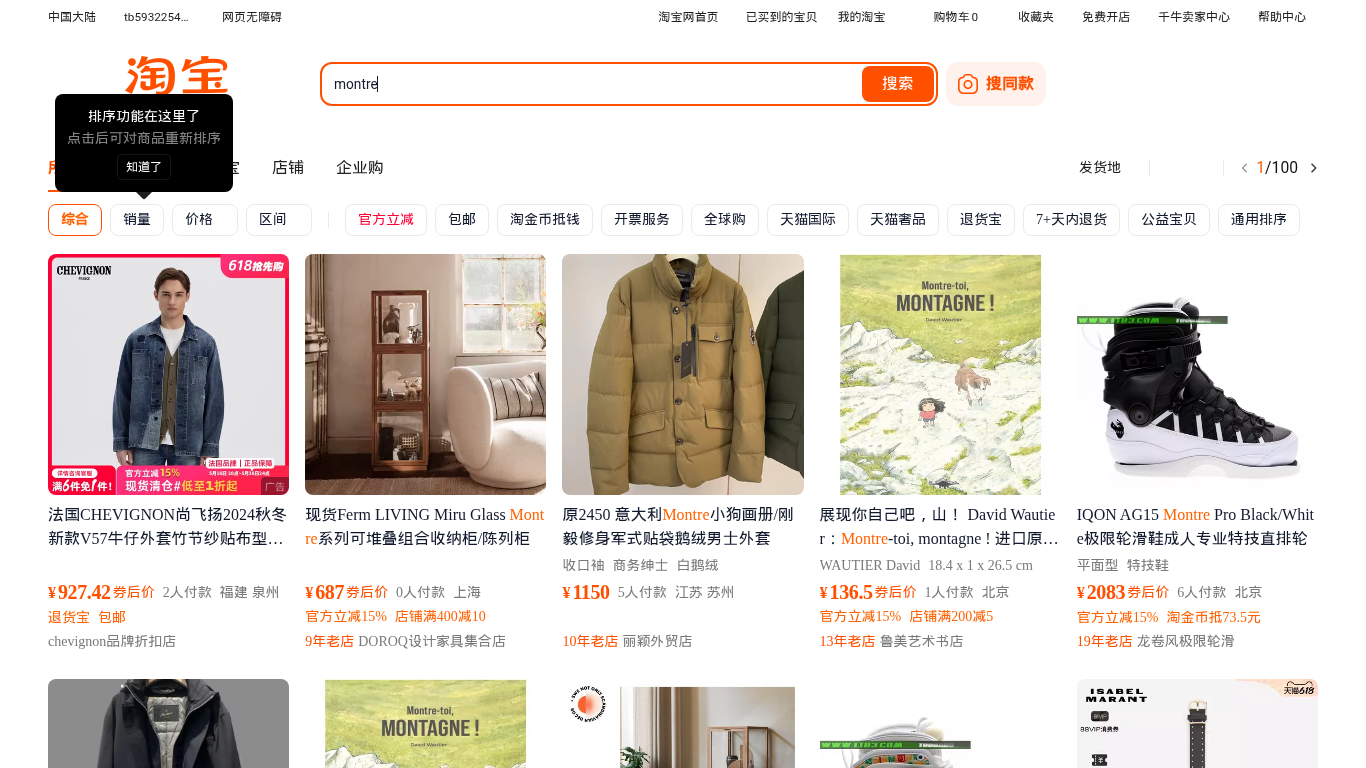
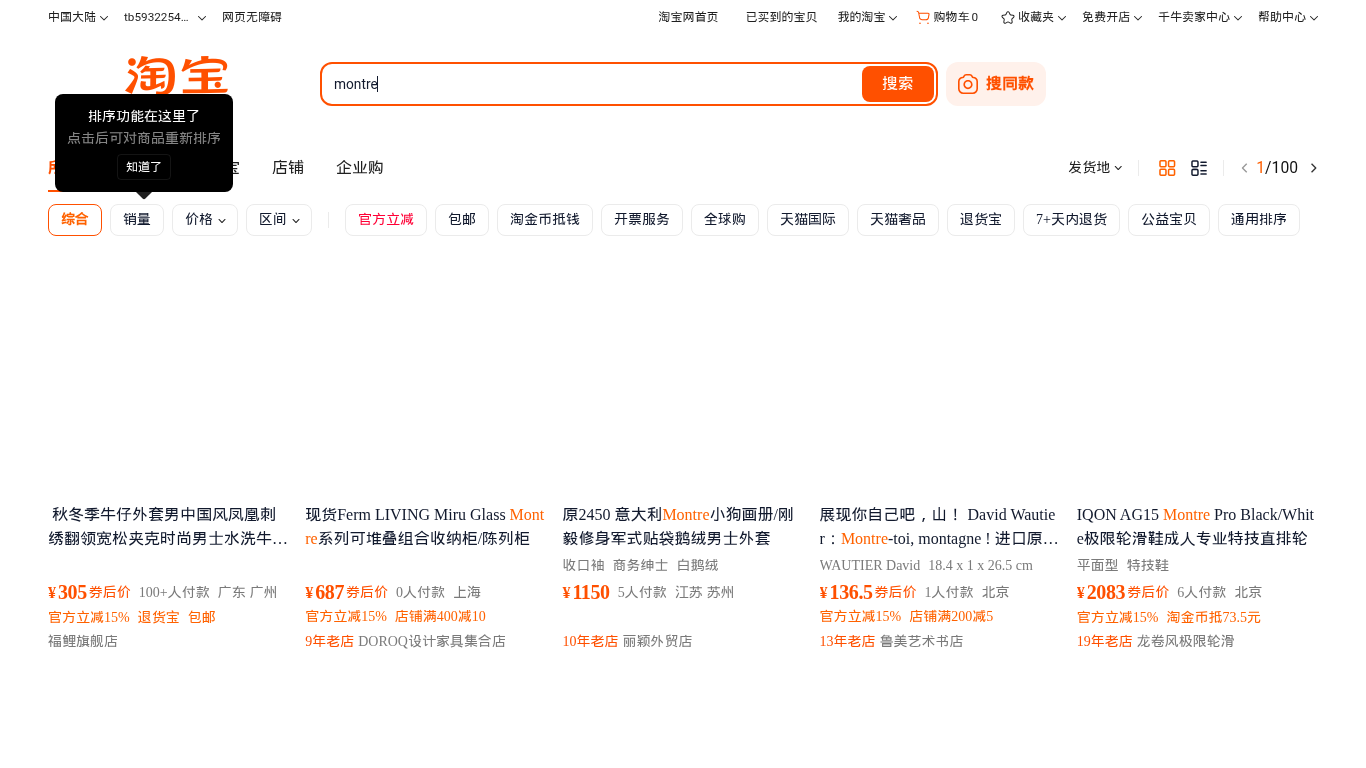
init scrbing data 3

diff --git a/src/services/scraping/taobao/scraper/searchProductsByKeyword.js b/src/services/scraping/taobao/scraper/searchProductsByKeyword.js
@@ -24,6 +24,9 @@ async function searchProductsByKeyword(keyword, limit) {
       browser = await puppeteer.launch({
         headless: 'new',
         args: ['--no-sandbox', '--disable-setuid-sandbox', '--disable-dev-shm-usage'],
+
+        // headless: false, // Affiche le navigateur avec interface graphique
+        // args: ['--no-sandbox', '--disable-setuid-sandbox', '--disable-dev-shm-usage'],
       });
 
       page = await browser.newPage();
@@ -81,25 +84,39 @@ async function searchProductsByKeyword(keyword, limit) {
           }
         }
 
-        // Extraire le prix
-        let price = '';
-        const priceIntElement = $(element).find('.priceInt--yqqZMJ5a');
-        const priceFloatElement = $(element).find('.priceFloat--XpixvyQ1');
+        // // Extraire le prix
+        // let price = '';
+        // const priceIntElement = $(element).find('.priceInt--yqqZMJ5a');
+        // const priceFloatElement = $(element).find('.priceFloat--XpixvyQ1');
 
-        if (priceIntElement.length && priceFloatElement.length) {
-          const priceInt = priceIntElement.text().trim();
-          const priceFloat = priceFloatElement.text().trim();
-          price = `¥${priceInt}${priceFloat}`;
-        } else {
-          // Essayer d'autres sélecteurs de prix courants
-          const altPriceSelectors = ['.price', '.price strong', '.productPrice', '.item-price'];
-          for (const selector of altPriceSelectors) {
-            const altPrice = $(element).find(selector).text().trim();
-            if (altPrice) {
-              // S'assurer que le prix a le symbole yuan
-              price = altPrice.includes('¥') ? altPrice : `¥${altPrice}`;
-              break;
-            }
+        // if (priceIntElement.length && priceFloatElement.length) {
+        //   const priceInt = priceIntElement.text().trim();
+        //   const priceFloat = priceFloatElement.text().trim();
+        //   price = `¥${priceInt}${priceFloat}`;
+        // } else {
+        //   // Essayer d'autres sélecteurs de prix courants
+        //   const altPriceSelectors = ['.price', '.price strong', '.productPrice', '.item-price'];
+        //   for (const selector of altPriceSelectors) {
+        //     const altPrice = $(element).find(selector).text().trim();
+        //     if (altPrice) {
+        //       // S'assurer que le prix a le symbole yuan
+        //       price = altPrice.includes('¥') ? altPrice : `¥${altPrice}`;
+        //       break;
+        //     }
+        //   }
+        // }
+        // Extraire le prix
+
+        let price = '';
+        const wrapper = $(element).find('.innerNormalPriceWrapper--tlX08mH1');
+
+        if (wrapper.length) {
+          const unit = wrapper.find('.unit--D3KGoZe2').text().trim();
+          const priceInt = wrapper.find('.priceInt--yqqZMJ5a').text().trim();
+          const priceFloat = wrapper.find('.priceFloat--XpixvyQ1').text().trim();
+
+          if (priceInt) {
+            price = `${unit || '¥'}${priceInt}${priceFloat}`;
           }
         }
 

diff --git a/src/controllers/taobaoController.js b/src/controllers/taobaoController.js
@@ -13,15 +13,15 @@ const taobaoController = {
   searchProducts: async (req, res) => {
     try {
       const { keyword, limit } = req.query;
-      
+
       // Le mot-clé est optionnel - s'il n'est pas fourni, on récupère les produits de la page d'accueil
       const limitNumber = limit ? parseInt(limit, 10) : 10;
-      
+
       console.log(`Début de la recherche de produits${keyword ? ` pour le mot-clé: ${keyword}` : ' sur la page populaire'}`);
-      
+
       // Appel au service de scraping
       const products = await scraperService.searchProducts(keyword, limitNumber);
-      
+
       // Logger les produits pour vérification
       console.log(`${products.length} produits trouvés:`);
       products.forEach((product, index) => {
@@ -32,21 +32,21 @@ const taobaoController = {
         console.log(`  - URL: ${product.productUrl || 'Non disponible'}`);
         console.log(`  - Source: ${product.source}`);
       });
-      
+
       return res.status(200).json({
         success: true,
         count: products.length,
-        products
+        products,
       });
     } catch (error) {
       console.error('Erreur dans le contrôleur Taobao:', error);
       return res.status(500).json({
         success: false,
         message: 'Erreur lors de la recherche de produits sur Taobao',
-        error: error.message
+        error: error.message,
       });
     }
-  }
+  },
 };
 
 module.exports = taobaoController;
